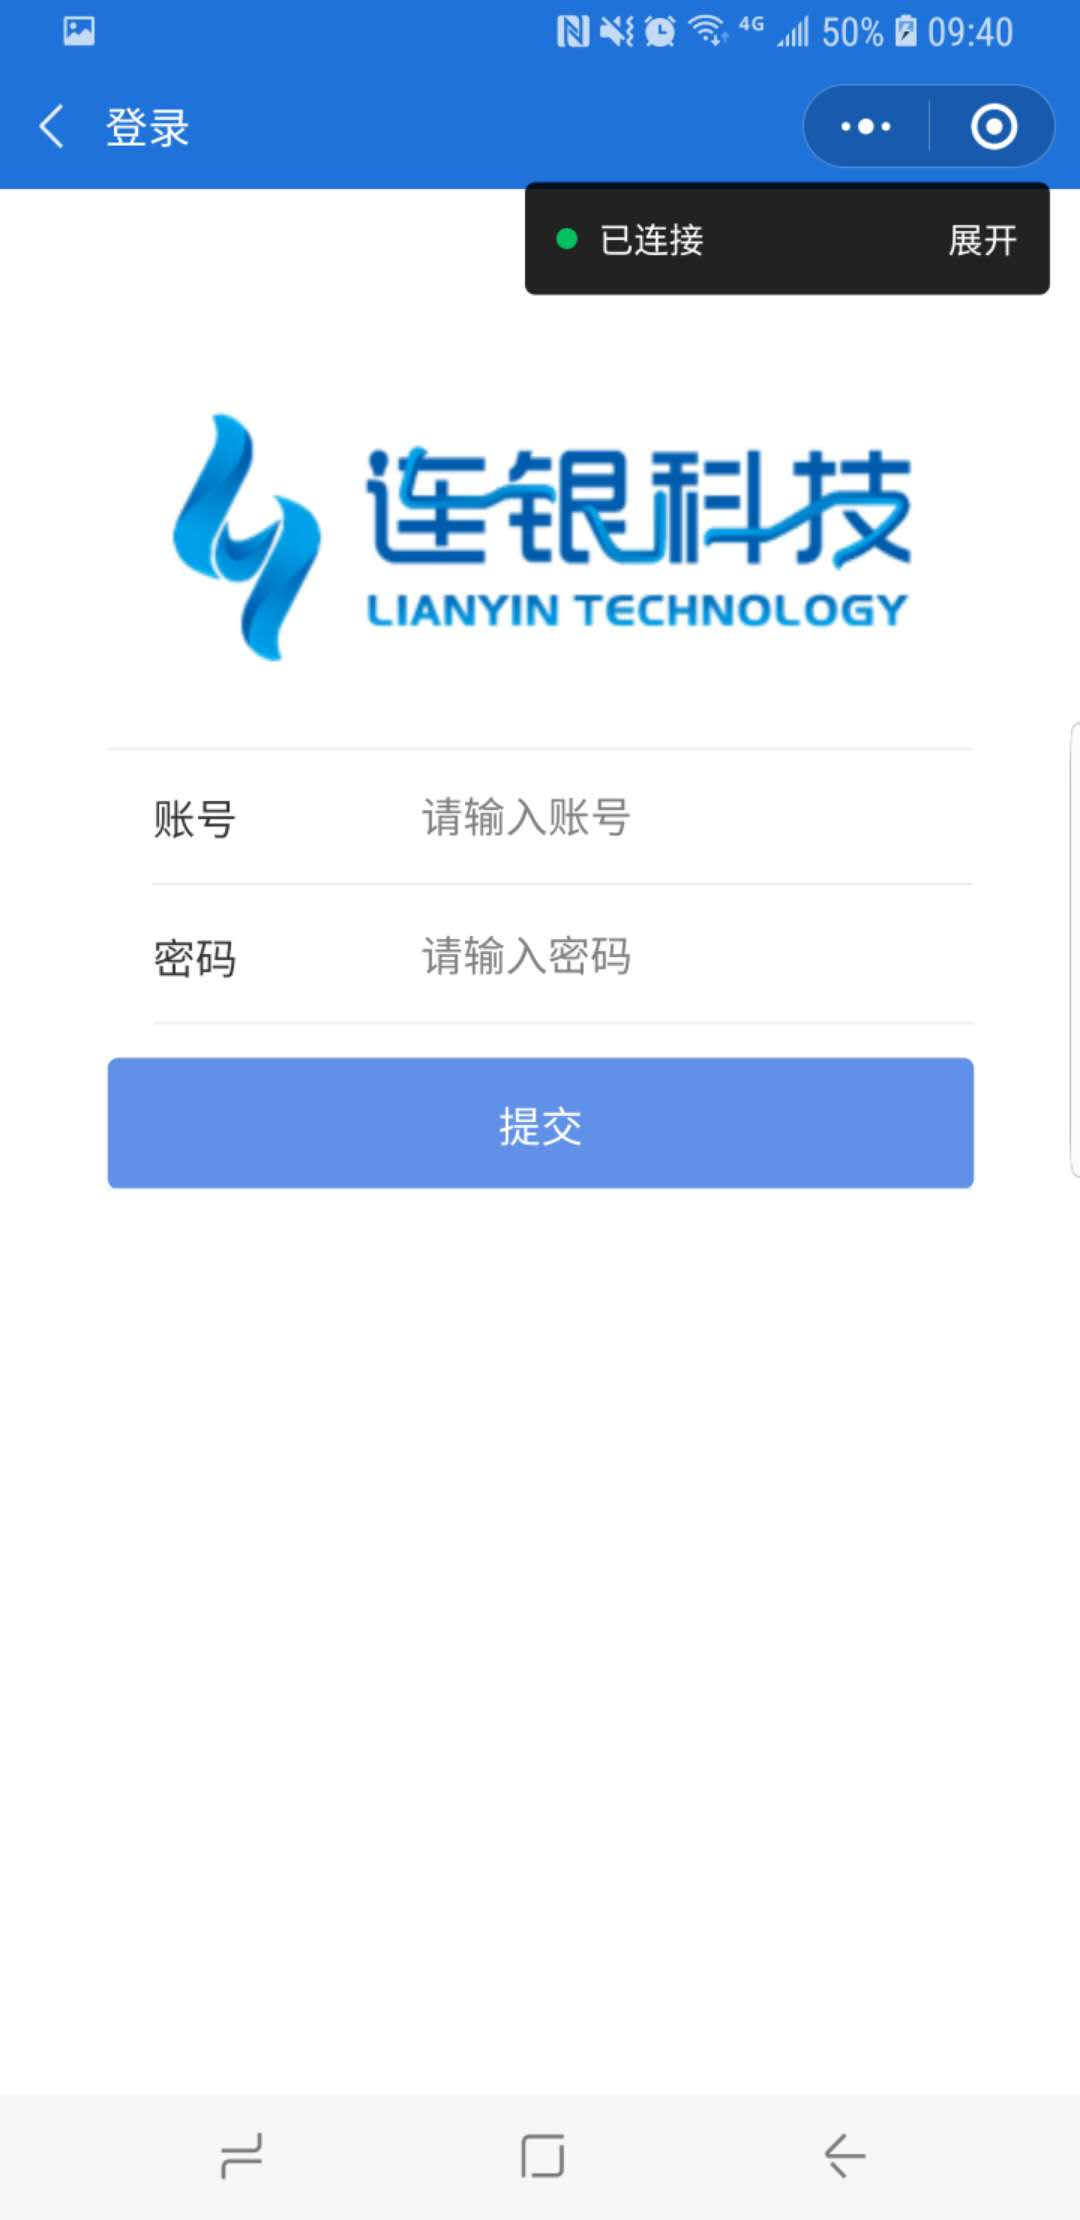
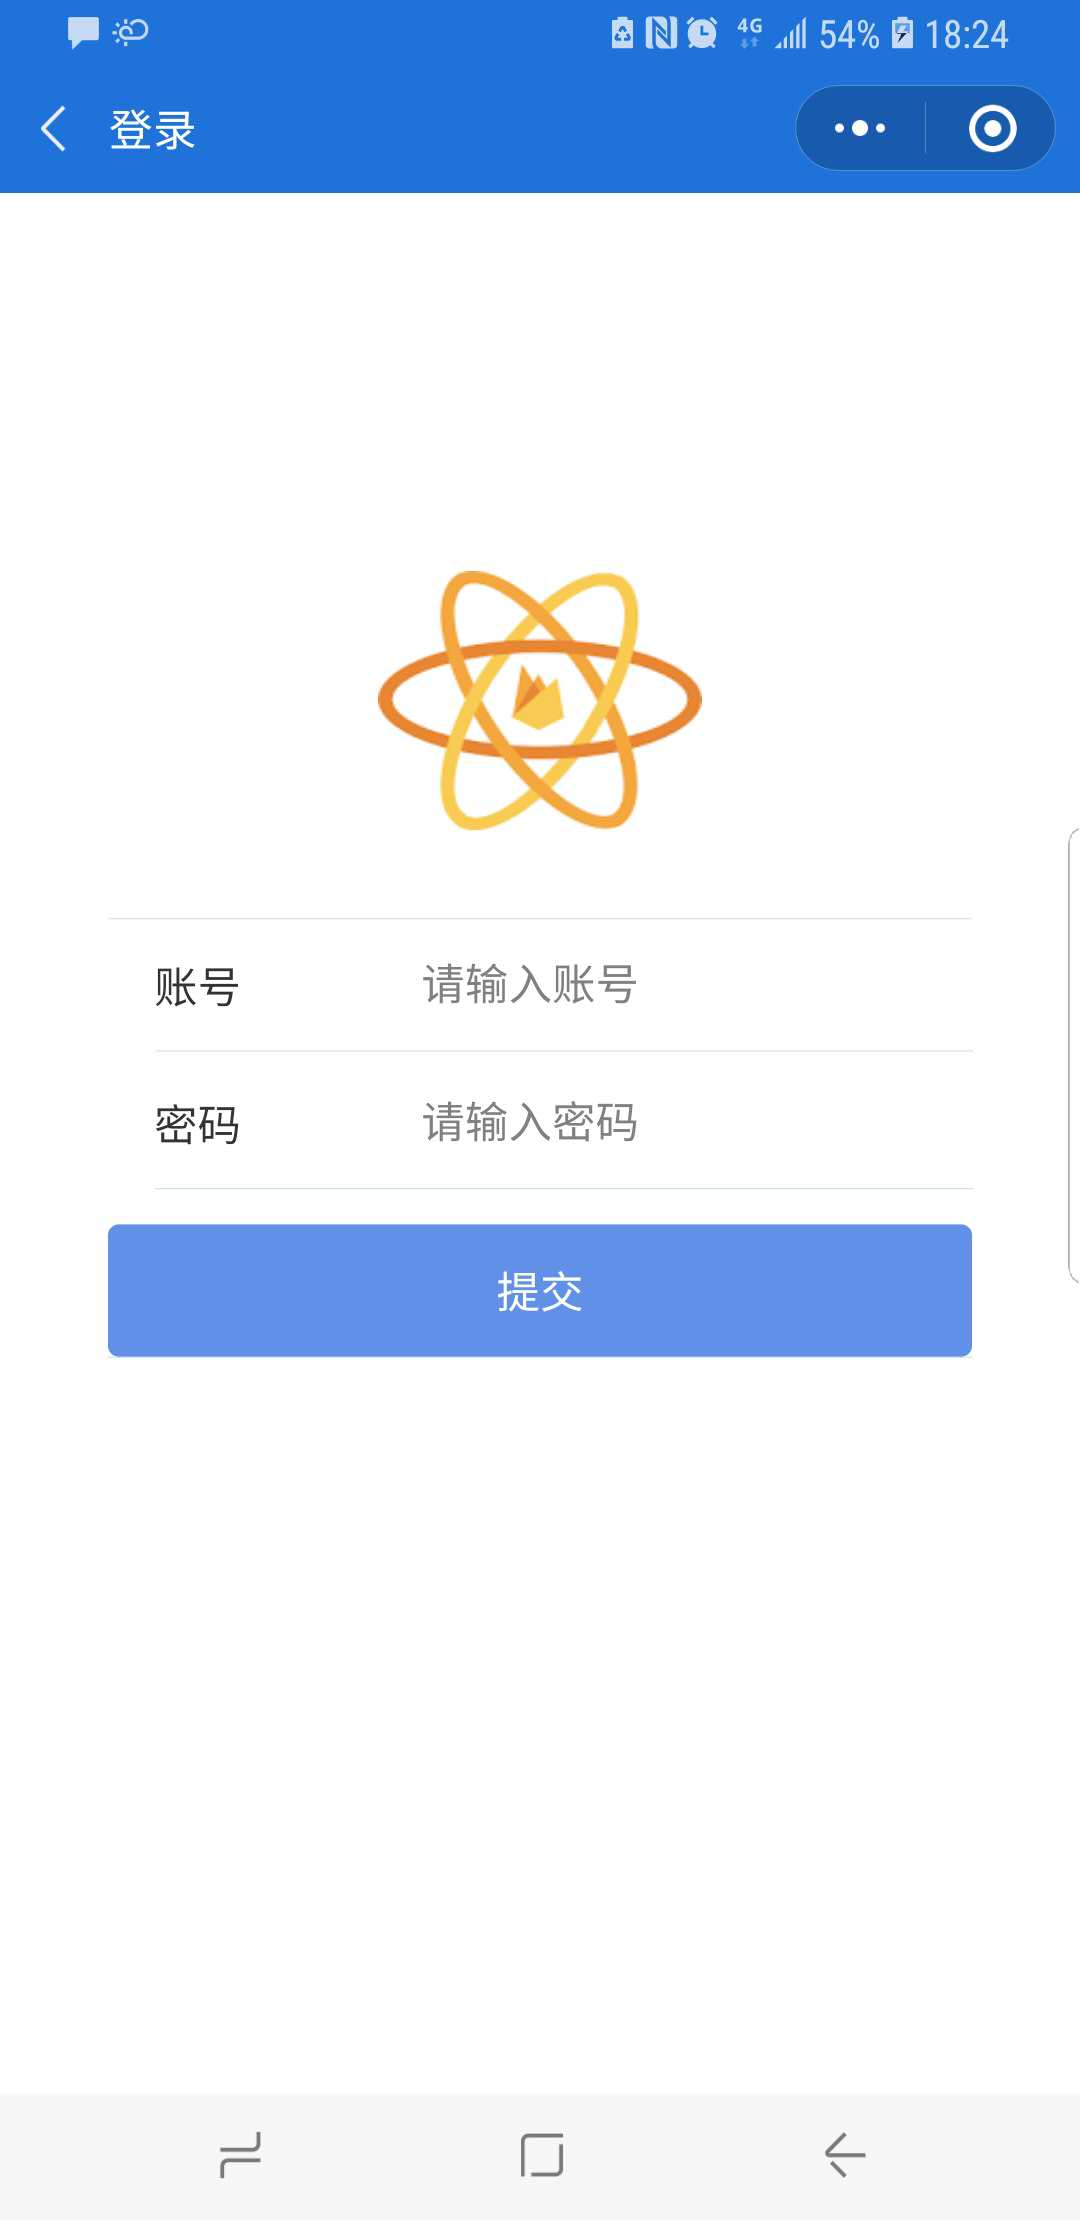
整理归档

diff --git a/src/pages/home/index.js b/src/pages/home/index.js
@@ -1,7 +1,7 @@
 import Taro, {Component} from '@tarojs/taro';
-import {View, Button, Text, AtMessage} from '@tarojs/components';
+import {View, Button, Text} from '@tarojs/components';
 import {observer, inject} from '@tarojs/mobx';
-import {AtGrid, AtButton} from "taro-ui";
+import {AtGrid, AtButton, AtMessage} from "taro-ui";
 import styles from './index.module.less';
 import iconApplication from './../../assets/images/icon-application.png';
 import iconHomeVisit from './../../assets/images/icon-homeVisit.png';

diff --git a/src/utils/request.js b/src/utils/request.js
@@ -1,7 +1,7 @@
 import Taro from '@tarojs/taro';
 import {getRandomStr} from './index';
 
-const baseUrl = 'http://192.168.3.122:8035';
+const baseUrl = 'http://116.62.152.199:8035';
 
 export function createApiRequest(url, data = {}, method = 'POST', checkToken = true) {
    return Taro.request({

diff --git a/src/pages/login/index.module.less b/src/pages/login/index.module.less
@@ -3,9 +3,9 @@
   height: 100%;
   background: #fff;
   .login-logo {
-    width: 80%;
+    width: 30%;
     height: 180px;
-    margin: 20% 10% 0 10%;
+    margin: 35% 10% 0 35%;
   }
 }
 .login-form {

diff --git a/src/pages/home/index.module.less b/src/pages/home/index.module.less
@@ -7,6 +7,6 @@
   }
 }
 .customer-btn {
-  margin-top: 20px;
+  margin-top: 50px;
   width: 90%;
 }
